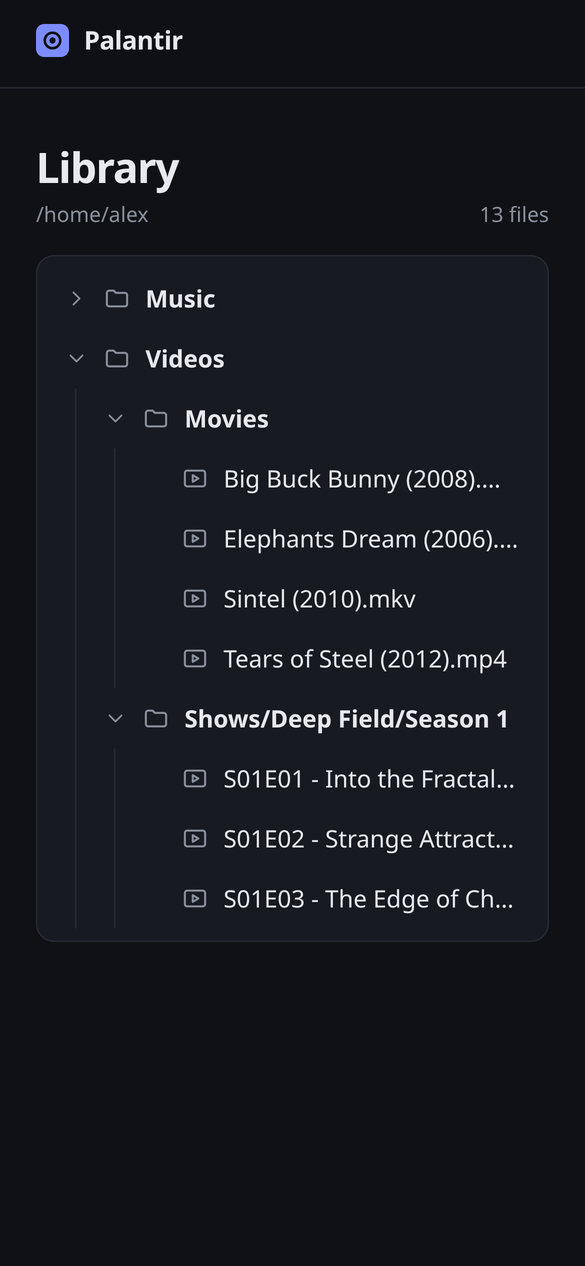
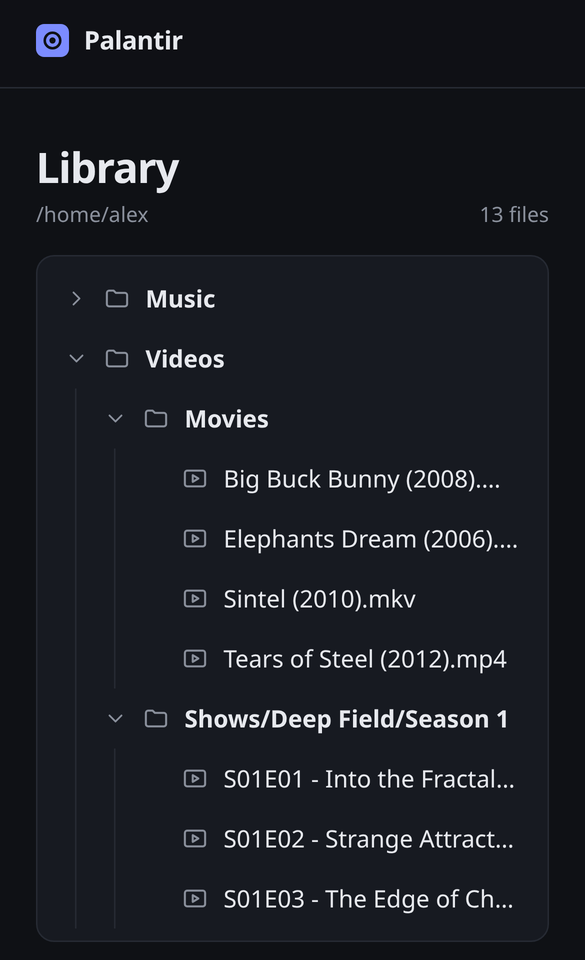
Update README.md

diff --git a/README.md b/README.md
@@ -40,15 +40,18 @@ You have a folder of movies on your computer and want to watch one on your phone
 <table>
   <tr>
     <td width="62%"><img src="docs/assets/library.png" alt="Media library" /></td>
-    <td><img src="docs/assets/desktop-app.png" alt="Desktop app" /></td>
+    <td width="38%"><img src="docs/assets/desktop-app.png" alt="Desktop app" /></td>
   </tr>
   <tr>
     <td align="center"><sub>Browse your library as a folder tree</sub></td>
     <td align="center"><sub>Pick folders and start the server</sub></td>
   </tr>
+</table>
+
+<table>
   <tr>
-    <td><img src="docs/assets/player.png" alt="Video player with subtitles" /></td>
-    <td><img src="docs/assets/mobile.png" alt="Mobile library" /></td>
+    <td width="71%"><img src="docs/assets/player.png" alt="Video player with subtitles" /></td>
+    <td width="29%"><img src="docs/assets/mobile.png" alt="Mobile library" /></td>
   </tr>
   <tr>
     <td align="center"><sub>Watch with subtitles, right in the browser</sub></td>
@@ -88,11 +91,10 @@ Subtitles are matched to videos in the same folder and can be picked from the pl
 
 ```mermaid
 flowchart LR
-    app["<b>Desktop app</b><br/>Rust · iced"] -- "starts" --> server["<b>HTTP server</b><br/>actix-web"]
-    app -- "saves folders" --> settings[("app_settings.json")]
-    settings -- "reads" --> server
-    server -- "library · streams · subtitles" --> browser["<b>Any browser</b><br/>on your network"]
-    browser -- "HTTP range requests" --> server
+    App[Desktop app] -->|starts| Server[HTTP server]
+    App -->|saves folders| Settings[(app_settings.json)]
+    Settings -->|reads| Server
+    Browser[Any browser on your network] <-->|library, streams, subtitles| Server
 ```
 
 - The **desktop app** stores your folders in `app_settings.json`, next to the executable.
